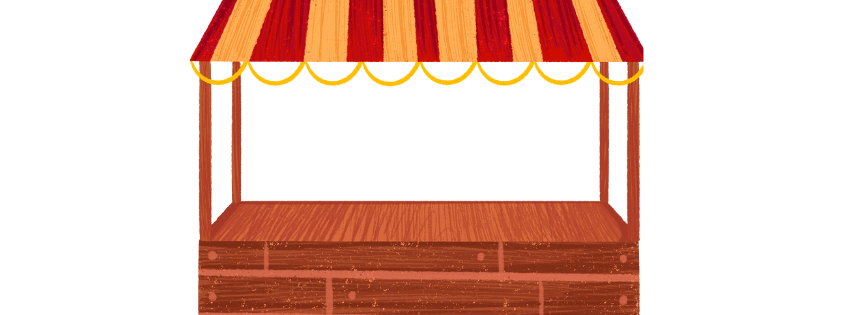
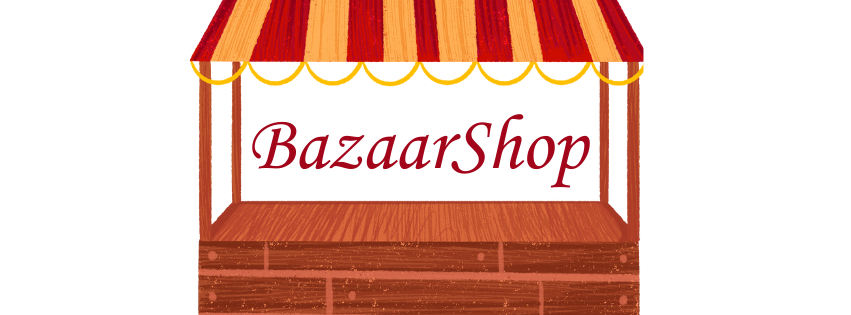
modifica crea articolo in nv e immagine welcome

Changed region(s): [[0.275, 0.3714, 0.7027, 0.6]]

diff --git a/resources/views/components/navbar.blade.php b/resources/views/components/navbar.blade.php
@@ -38,6 +38,13 @@
             <a class="nav-link" href="{{route('article.index')}}">{{__('ui.browse')}}</a>
           </li>
 
+          
+          @auth
+          <li class="nav-item d-flex align-items-center">
+            <a class="nav-link" href="{{route('create.article')}}">Crea articolo</a></li>
+          <li>
+          @endauth
+
           {{-- modifica --}}
           <li class="nav-item dropdown d-flex align-items-center">
             <a class="nav-link dropdown-toggle" href="#" role="button" data-bs-toggle="dropdown" aria-expanded="false">
@@ -55,9 +62,6 @@
               @endguest
 
               @auth
-                  <li>
-                    <a class="nav-link btn btn-outline-danger" href="{{route('create.article')}}">Crea articolo</a></li>
-                  <li>
                     @if (Auth::user()->is_revisor)  
                     <hr class="dropdown-divider">
                         <li>

diff --git a/resources/views/welcome.blade.php b/resources/views/welcome.blade.php
@@ -12,12 +12,12 @@
     <div class="'container-fluid text-center sfondo">
         <div class="row vh-100 justify-content-center align-items-center">
             <div class="col-12">
-                <h1 class="title-custom display-1">BazaarShop</h1>
-                <div class="my-3">
+                {{-- <h1 class="title-custom display-1">BazaarShop</h1> --}}
+                {{-- <div class="my-3">
                     @auth
                         <a href="{{ route('create.article') }}"><button type="button" class="btn btncustom">{{__('ui.createArticle')}}</button></a>
                     @endauth
-                </div>
+                </div> --}}
             </div>
         </div>
     </div>
